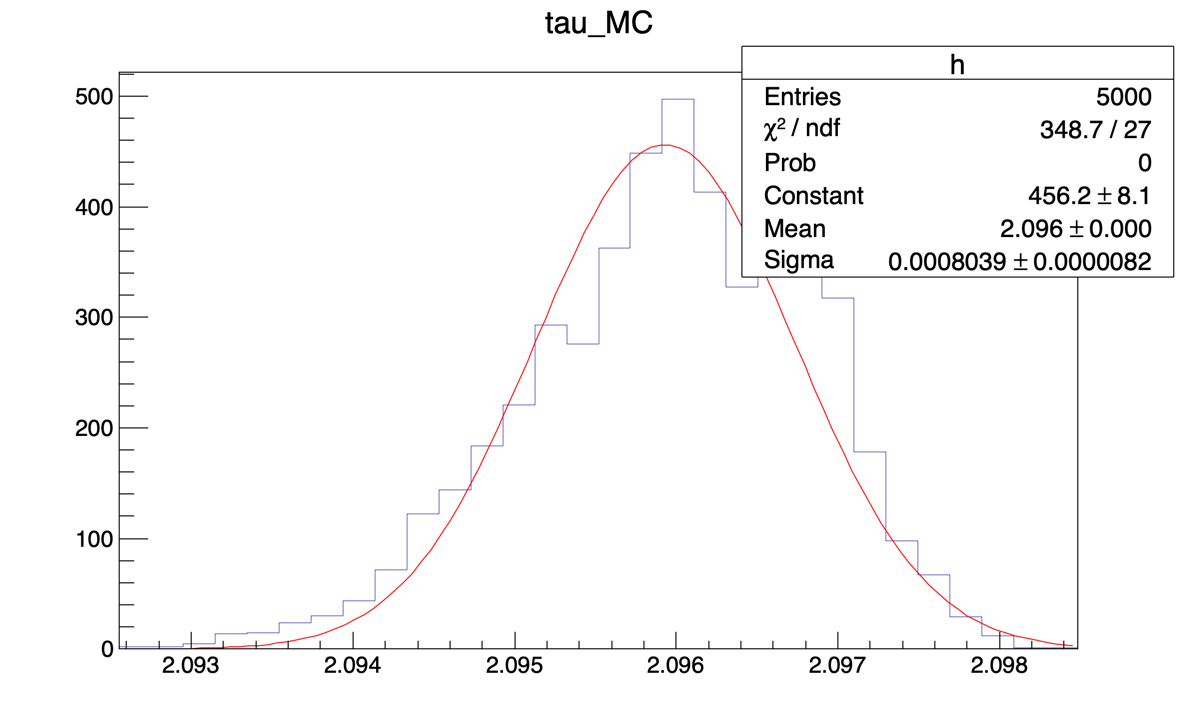
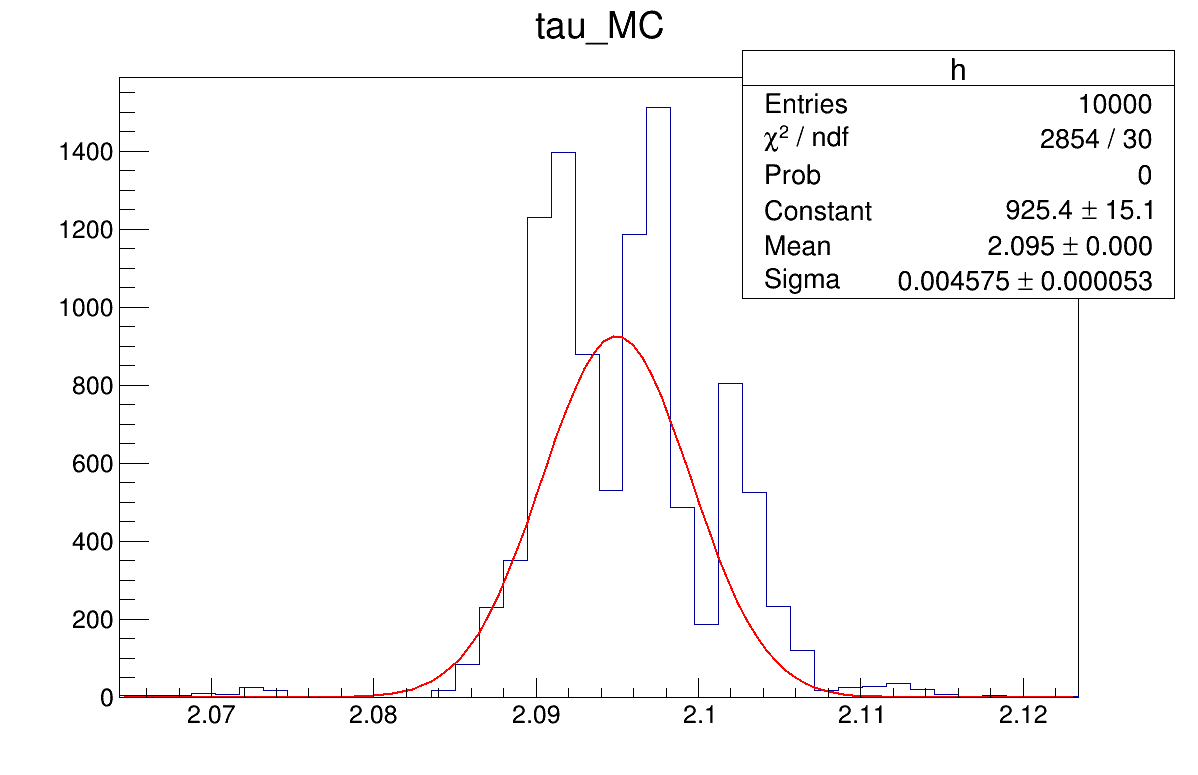
uup

diff --git a/monte_carlo/estimator.cpp b/monte_carlo/estimator.cpp
@@ -70,7 +70,7 @@ int main(int argc, char** argv)
 
     std::vector<double> tau;
     std::vector<double> chi_square;
-    int experiments = 5000;
+    int experiments = 10000;
     int counts = 25000;
     gStyle->SetOptStat(11);
     gStyle->SetOptFit(1111);
@@ -85,21 +85,24 @@ int main(int argc, char** argv)
 
     TApplication* myApp = new TApplication("myApp", NULL, NULL);
 
-    // double f_mu_pos = r->Gaus(0.56075, 0.00087);
-    double f_mu_pos = 0.56075;
-    // double f_mu_pos = 0.8;
-    double f_mu_neg = 1 - f_mu_pos;
+
 
     for(int i=0;i<experiments;i++){
         // TCanvas* cnv1 = new TCanvas(("myC1" + to_string(i)).c_str(),"myC1",10,10,1200,800);
         // generate each pseudoexperiment
         // in a single experiment we populate an histogram with the histo_populate
         // method, we then fit this histogram in order to estimate tau,
+
+        func->SetParameter(1,2.100);
+
         double min=0, max=11;
         int bin = 100;
         TH1F *h = new TH1F("h", "example histogram",bin,min,max);
-
-
+        //0.56075 0.00087
+        double f_mu_pos = r->Gaus(0.56075, 0.03);
+        // double f_mu_pos = 0.56075;
+        // double f_mu_pos = 0.8;
+        double f_mu_neg = 1 - f_mu_pos;
         // generate number of mu+ and mu-
 
 
@@ -145,13 +148,14 @@ int main(int argc, char** argv)
     gStyle->SetOptFit(1111);
     double min = *min_element(tau.begin(), tau.end());
     double max = *max_element(tau.begin(), tau.end());
-    TH1F *h = new TH1F("h", "tau_MC",30, min, max);
+    TH1F *h = new TH1F("h", "tau_MC",40, min, max);
 
     for(double t: tau)   h->Fill(t);
 
     h-> Draw();
     TF1 * func2 = new TF1("fun2", "gaus",min, max);
     h->Fit(func2);
+    cout << "tau medio: " << func2->GetParameter(1) << " +- " << func2->GetParameter(2) << endl;
     cnv->Modified();
     cnv->Update();
     cnv->SaveAs("images/tau_MC.png");
